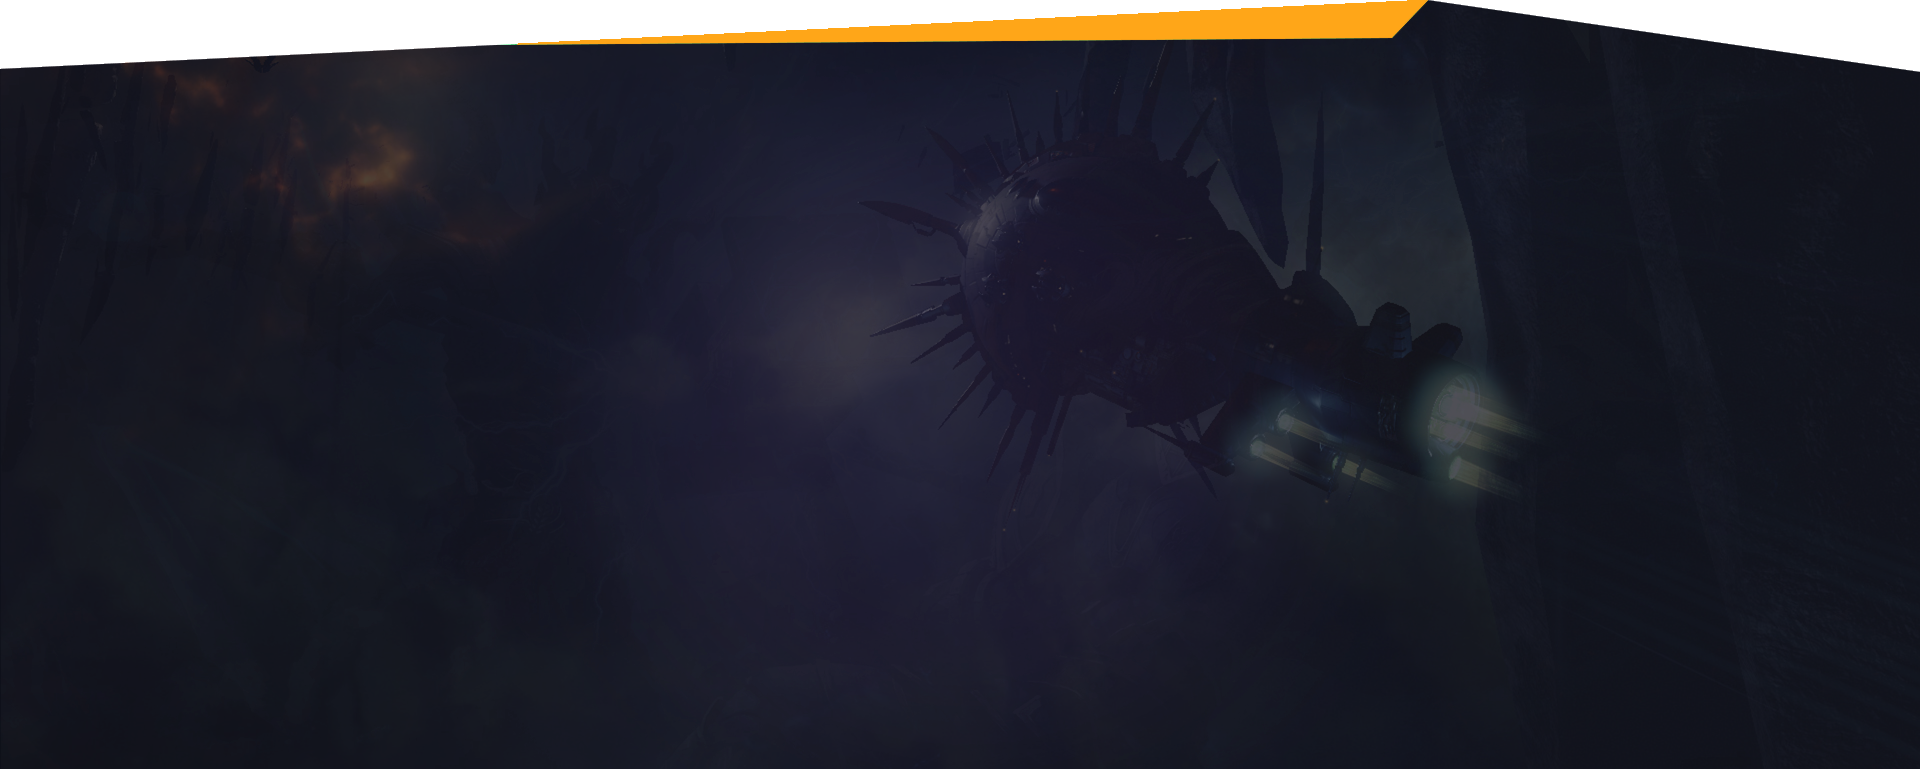
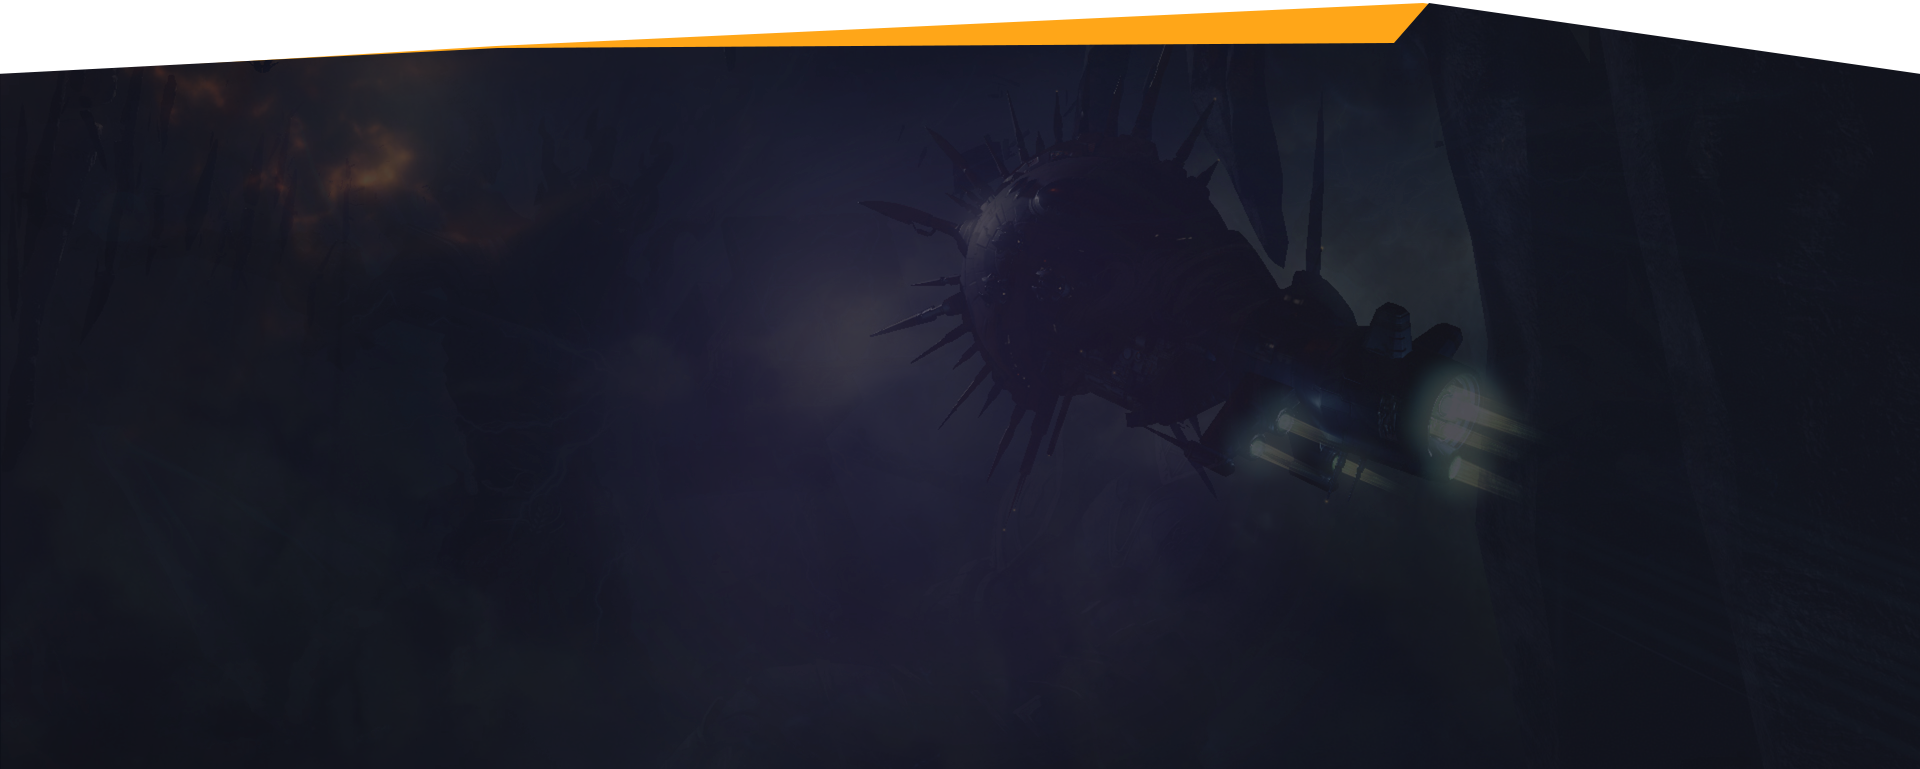
updates

diff --git a/components/match/match-area.vue b/components/match/match-area.vue
@@ -3,7 +3,11 @@
         <div class="match__result-bg" style="background-image:url(/images/bg/result_bg.png)"></div>
         <div class="container">
             <div class="row justify-content-center">
-                <div class="col-xl-6 col-lg-6 col-md-10">
+                <div class="col-xl-6 col-lg-6 col-md-6 col-sm-12">
+                    <header>
+                        <h1>EVE ITALIA – LA COMMUNITY ITALIANA DI EVE ONLINE</h1>
+                    </header>
+
                     <section>
                         <p>Benvenuti su <strong>EVE Italia</strong>, la <strong>community italiana di EVE
                                 Online</strong> e punto di riferimento per tutti i giocatori italiani del celebre MMO
@@ -15,7 +19,8 @@
                     <section>
                         <h2>Perché scegliere EVE Italia</h2>
                         <p><strong>EVE Italia</strong> nasce per offrire uno spazio neutro e amichevole a tutta la
-                            <strong>community italiana di EVE Online</strong>. Qui puoi:</p>
+                            <strong>community italiana di EVE Online</strong>. Qui puoi:
+                        </p>
                         <ul>
                             <li>Connetterti con altri giocatori italiani di <strong>EVE Online</strong>.</li>
                             <li>Scambiare opinioni, esperienze e strategie di gioco.</li>
@@ -24,9 +29,18 @@
                         </ul>
                         <p>Con <strong>EVE Italia</strong>, vogliamo unire i giocatori italiani in una vera
                             <strong>community</strong>, creando un ambiente inclusivo e collaborativo per chiunque ami
-                            esplorare l’universo di <strong>EVE Online</strong>.</p>
+                            esplorare l’universo di <strong>EVE Online</strong>.
+                        </p>
                     </section>
 
+                    <div class="about__content-bottom justify-content-center">
+                        <div class="about__funFact-images m-auto" style="margin-top:60px!important;">
+                            <NuxtImg src="/images/others/fun_fact_shape.png" alt="background" class="bg-shape" />
+                            <NuxtImg src="/images/others/fun_fact.png" class="main-img" alt="image" />
+                        </div>
+                    </div>
+                </div>
+                <div class="col-xl-6 col-lg-6 col-md-6 col-sm-12">
                     <section>
                         <h2>Cosa offre la nostra Community Italiana</h2>
                         <p>Entrando in <strong>EVE Italia</strong>, avrai accesso a:</p>
@@ -45,15 +59,18 @@
                         <p>Il cuore della <strong>community italiana di EVE Online</strong> è il server Discord di
                             <strong>EVE Italia</strong>, dove potrai interagire in tempo reale con altri giocatori,
                             condividere esperienze e ricevere supporto immediato. Qualunque sia il tuo obiettivo –
-                            esplorare, commerciare o combattere – qui troverai compagni pronti a partire con te.</p>
-                        <p><a href="#" target="_blank"><strong>👉 Entra ora nel Discord di EVE Italia</strong></a></p>
+                            esplorare, commerciare o combattere – qui troverai compagni pronti a partire con te.
+                        </p>
+                        <p><a href="https://discord.gg/t7ypApFQ7v" target="_blank"><strong>👉 Entra ora nel Discord di
+                                    EVE Italia</strong></a></p>
                     </section>
 
                     <section>
                         <h2>Vivi l’universo di EVE Online con EVE Italia</h2>
                         <p>In <strong>EVE Italia</strong>, divertimento e condivisione sono al centro: la nostra
                             <strong>community italiana</strong> ti accompagna nell’universo di <strong>EVE
-                                Online</strong> con eventi, discussioni e attività per ogni tipo di giocatore.</p>
+                                Online</strong> con eventi, discussioni e attività per ogni tipo di giocatore.
+                        </p>
                         <p>Non perdere l’occasione di unirti alla <strong>community italiana di EVE</strong>. Diventa
                             parte di <strong>EVE Italia</strong> e vivi la tua avventura spaziale insieme a migliaia di
                             appassionati come te.</p>

diff --git a/assets/scss/layout/_match-result.scss b/assets/scss/layout/_match-result.scss
@@ -11,14 +11,14 @@
             z-index: 1;
         }
         &-bg {
-            position: absolute;
-            left: 0;
+            background-position: top;
+            background-size: cover;
             bottom: 0;
-            width: 100vw;
-            height: calc(100% + 70px);
-            background-position: top center;
+            height: calc(100% + 100px);
+            left: 0;
+            position: absolute;
+            width: 100%;
             z-index: -1;
-            background: no-repeat;
         }
         &-wrapper {
             &>* {

diff --git a/nuxt.config.ts b/nuxt.config.ts
@@ -6,7 +6,6 @@ export default defineNuxtConfig({
   app: {
     head: {
       title: 'EVE Italia - Community Italiana di EVE Online',
-      description: `EVE Italia - La community italiana di EVE Online. Partecipa alla community italiana di EVE, scambia strategie, condividi esperienze e unisciti al nostro Discord per vivere l'universo di EVE Online.`,
       charset: 'utf-8',
       viewport: 'width=device-width, initial-scale=1',
       script: [
